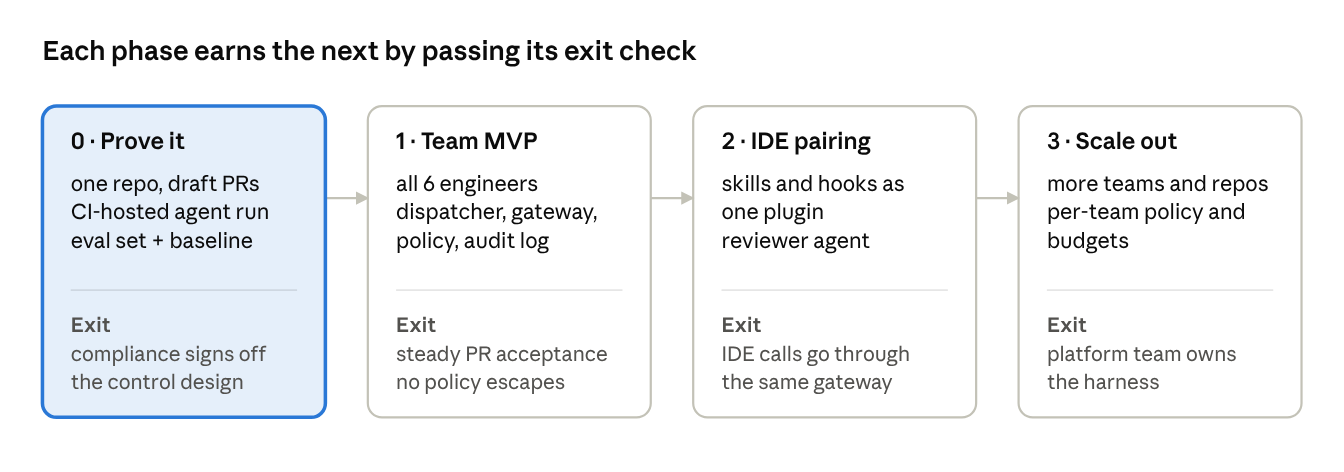
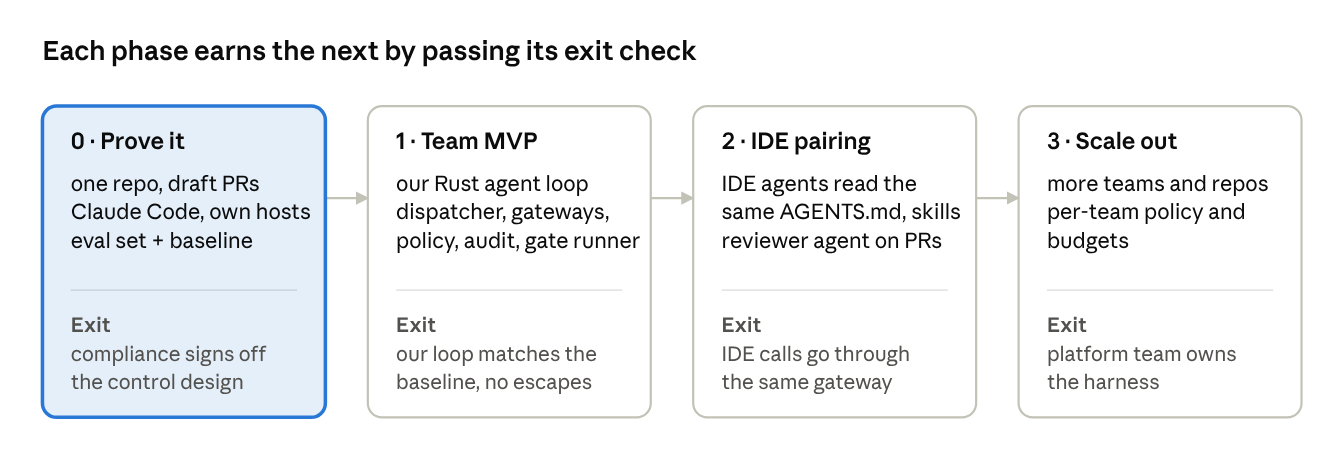
Update roadmap diagram and drop remaining vendor and plugin references

diff --git a/docs/kod-harness-design.md b/docs/kod-harness-design.md
@@ -19,7 +19,7 @@ This doc designs a harness that lets an AI agent take a ticket and hand back a p
 | Regulated industry | Every control must leave audit evidence. Code may only go to a model endpoint in an approved region with zero data retention. Separation of duties is enforced by tooling, not by trust. |
 | Team of 6 | Everything is built and run in-house except models and other agent loops, so each in-house component must stay small and boring. Review capacity is the real bottleneck, so agent work in progress is capped to match it. |
 | PR delegation first | The pull request is the unit of work, handoff and evidence. |
-| IDE pairing later | Skills, hooks and tool config live in one package that both the PR runner and the IDE load. No second copy. |
+| IDE pairing later | AGENTS.md, skills and the gateway are shared by the PR runner and the IDE. No second copy. |
 | Low resource consumption | Every harness component we build is Rust. See *Language choice*. |
 | Scale out later | Keep the seams (gateway, policy, audit) as separate components now. Don't build multi-team features yet. |
 
@@ -418,7 +418,7 @@ Measure a baseline in phase 0 and set targets from it, not before.
 
 - **0 · Prove it.** Build a minimal sandbox runner on our own hosts and run Claude Code in it on one repo, producing draft PRs on low-risk tickets. Build the eval set, measure the baseline our own loop must match, practise the kill switch, and take the control mapping to compliance.
 - **1 · Team MVP.** Build our Rust agent loop, the dispatcher, both gateways, policy, the audit log, the gate runner and tracing. Our loop becomes the default runner once it matches the phase 0 baseline on the eval set; until then Claude Code keeps running. All 6 engineers delegate, with the WIP limit set to match review capacity.
-- **2 · IDE pairing.** Package skills, hooks and MCP config as one plugin that the IDE extension loads. IDE tool calls go through the same gateway and policy. Add the reviewer agent to PRs.
+- **2 · IDE pairing.** IDE agents read the same AGENTS.md and skills, and their tool calls go through the same gateway and policy. Hooks are per agent, so nothing relies on them. Add the reviewer agent to PRs.
 - **3 · Scale out.** Add per-team policy, budgets and self-service onboarding, with a platform team owning the harness. Only now does multi-team design work start.
 
 ## Risks

diff --git a/docs/devsecops-sdlc.md b/docs/devsecops-sdlc.md
@@ -131,7 +131,7 @@ Each stage's outputs are the next stage's inputs and its gate's evidence: no out
 | Test | Test results, mutation score, changed-line coverage | Pipeline and test agent | JUnit and coverage reports | G6 |
 | Test | DAST and container scan reports | Pipeline | SARIF | G6, AppSec |
 | Test | Finding triage with evidence; exception requests | Test agent drafts; AppSec approves exceptions | Tracker, exception register | G6, risk owner |
-| Test | Policy decision | Policy engine (OPA) | Decision log | G7, auditors |
+| Test | Policy decision | Policy engine | Decision log | G7, auditors |
 | Release | Release notes and risk summary | Release agent | Change record | Release manager, users |
 | Release | Rollback plan | Release agent drafts; release manager approves | Change record | On-call |
 | Release | Change record with approvals | Pipeline, auto-filled | ITSM tool | G7, auditors |
